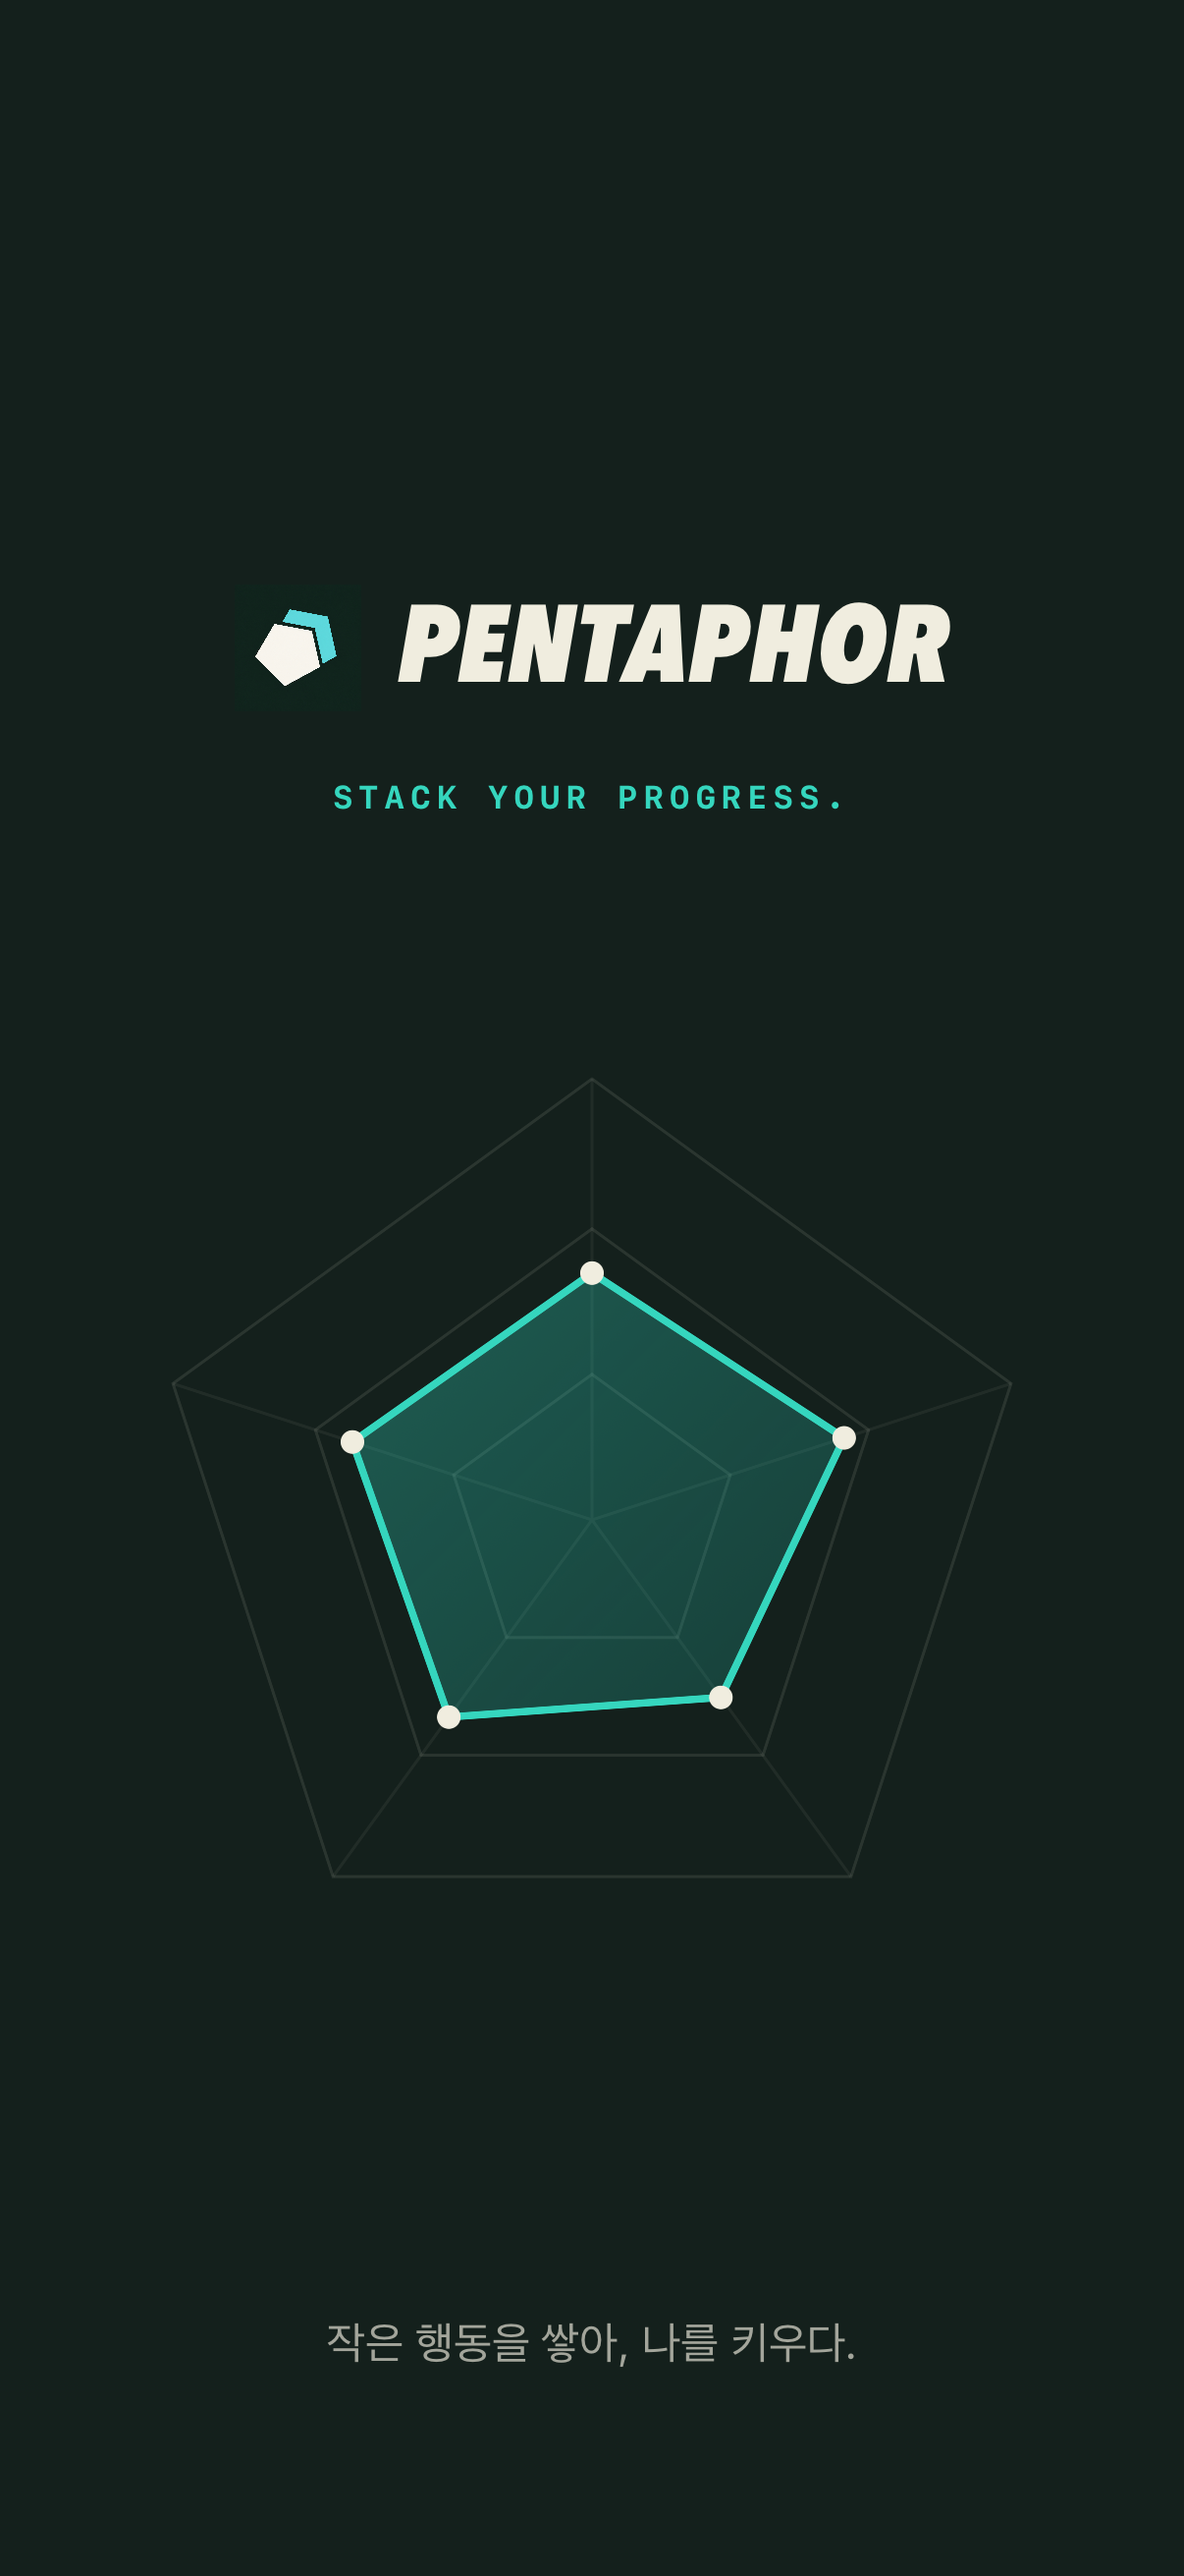
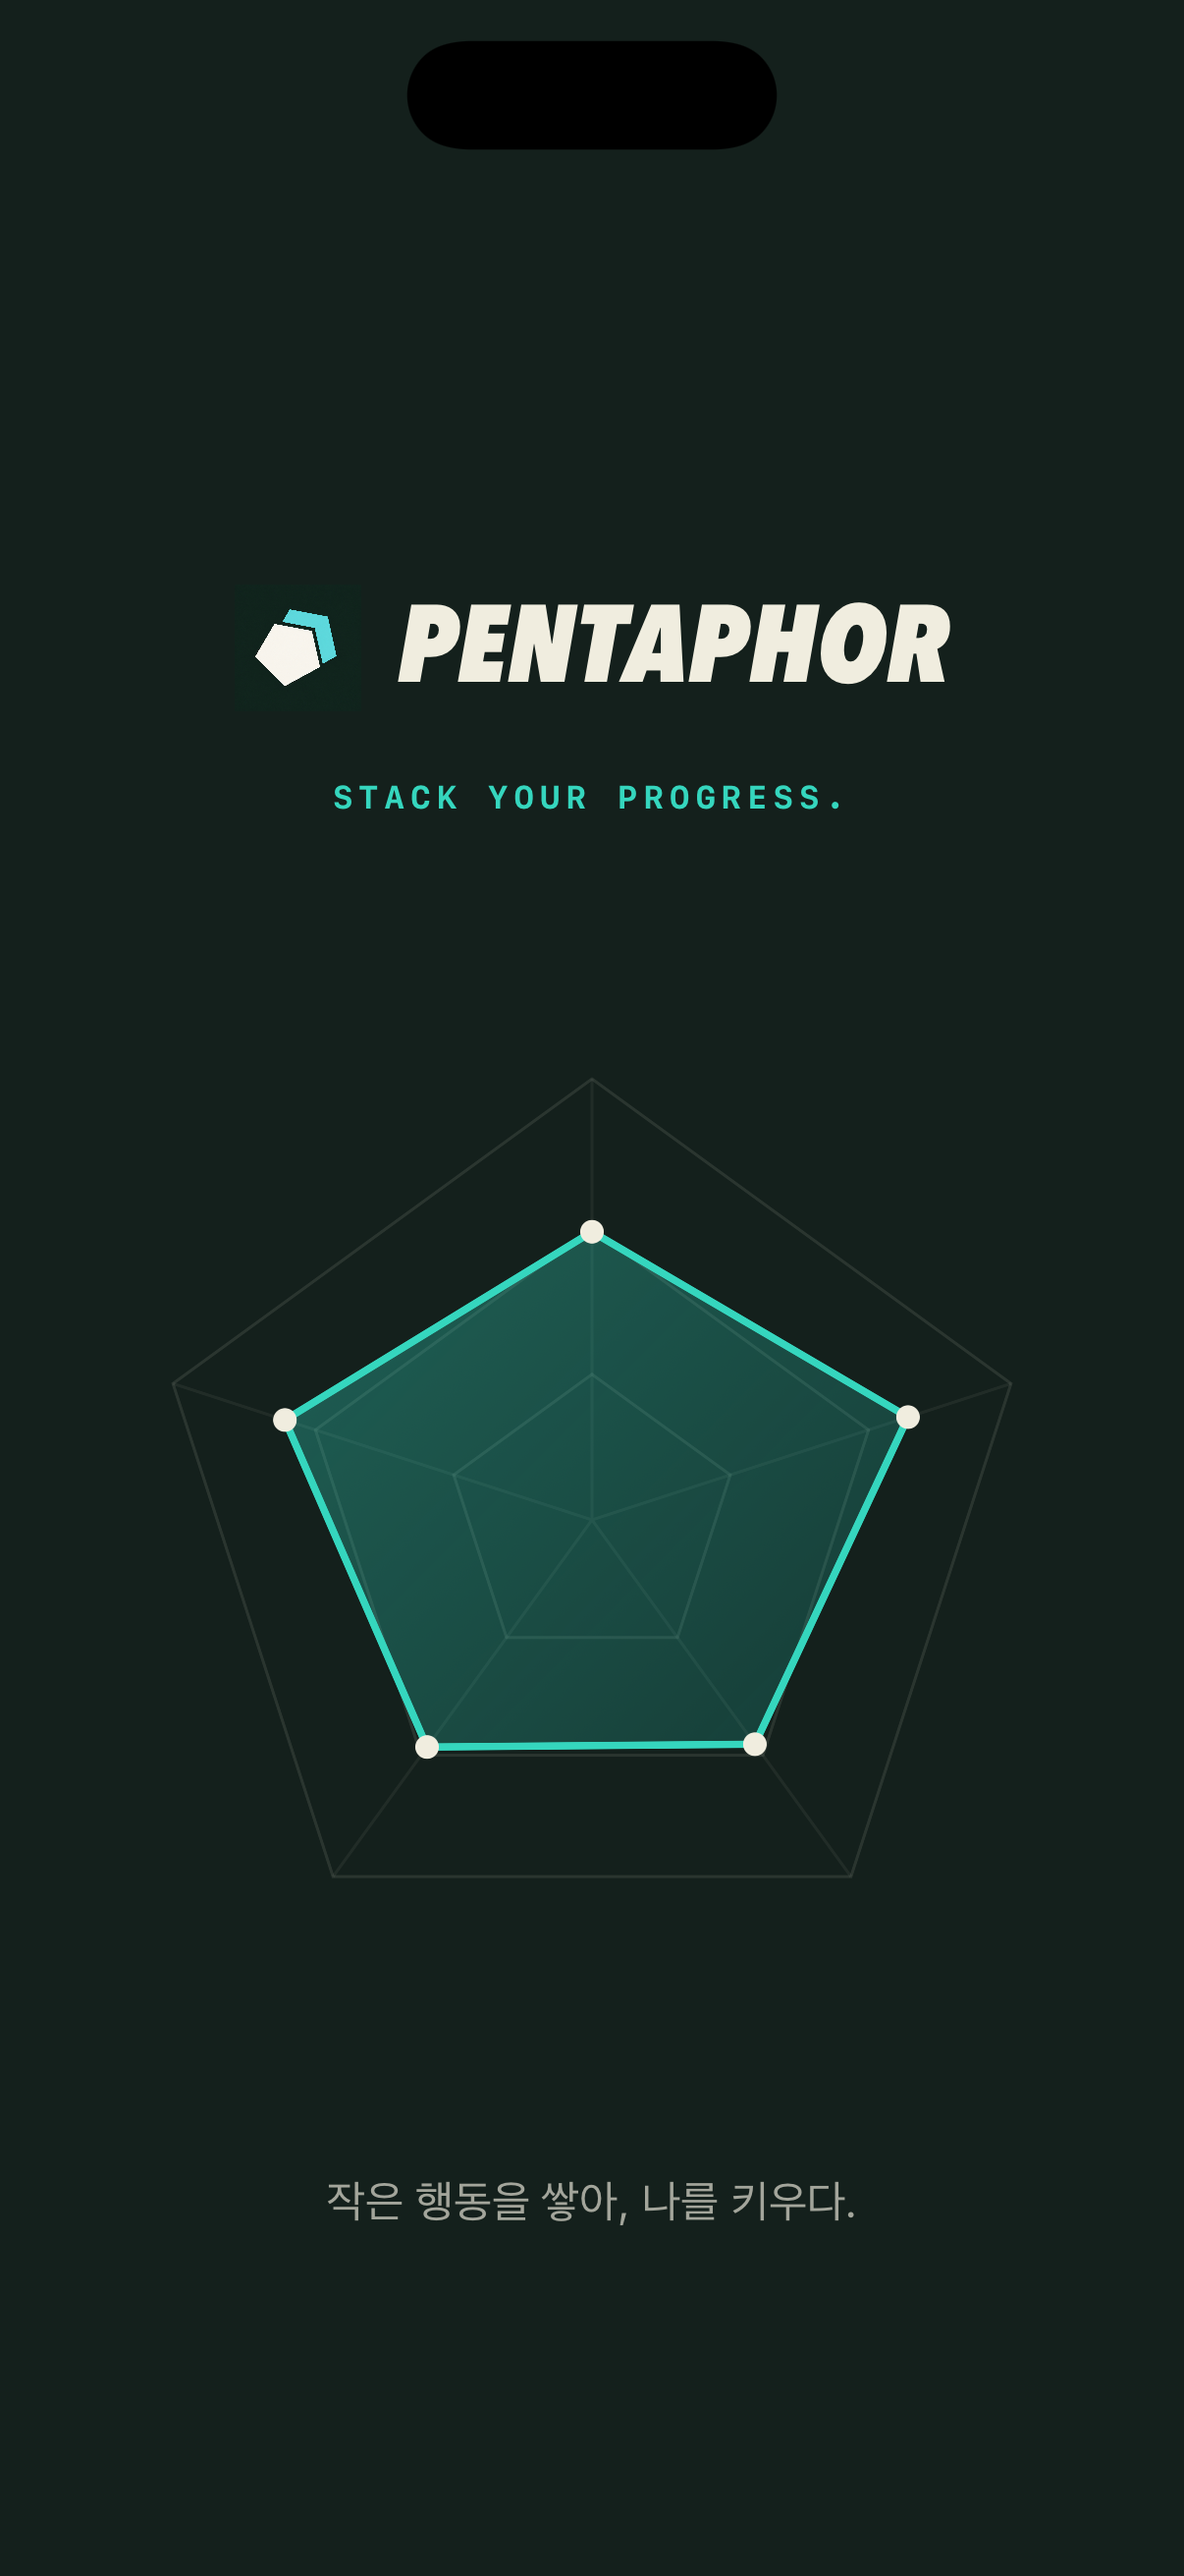
style: bring launch tagline closer to the polygon

diff --git a/Pentaphor/Views/LaunchLoadingView.swift b/Pentaphor/Views/LaunchLoadingView.swift
@@ -45,6 +45,7 @@ struct LaunchLoadingView: View {
                 Spacer(minLength: 30)
                 Text(BrandCopy.tagline).font(.subheadline).foregroundStyle(Palette.paper.opacity(0.65))
                     .multilineTextAlignment(.center).padding(.bottom, 36)
+                    .offset(y: -48)
             }
             .padding(.horizontal, 24).frame(maxWidth: .infinity, maxHeight: .infinity)
         }

diff --git a/docs/development-log.md b/docs/development-log.md
@@ -145,3 +145,7 @@ Extended the existing settings acceptance test to relaunch with the saved achiev
 GREEN: all **3 affected native acceptance tests passed**, 63.817s (`/tmp/pentaphor-launch-independent-green.xcresult`): saved achievement simplification with animated launch, pending load/foreground resume, and error/retry. Core regression: **57 tests in 11 suites passed**, 0.549s (`/tmp/pentaphor-launch-independent-core.log`). Signed physical-iOS build succeeded (`/tmp/pentaphor-launch-independent-device.log`). The other seven UI tests were not rerun for this scoped correction.
 
 Visually reviewed the lowered header and recorded a normal-speed launch with saved achievement simplification still enabled: all five axes animate before the existing quest appears. Updated screenshot 21 and the launch video; added screenshot 23 as the preference regression capture. No physical-phone installation or user-data changes.
+
+## 2026-09-14 — bring the launch tagline closer
+
+Raised the Korean launch tagline by 48pt at the user's request, keeping the logo and polygon positions. Visually checked the native iPhone 17 Pro simulator capture and updated `docs/screenshots/21-launch-growth.png`. Simulator and signed physical-iOS builds both succeeded (`/tmp/pentaphor-launch-tagline-simulator.log`, `/tmp/pentaphor-launch-tagline-device.log`). Layout-only change; no new tests or full regression rerun.

diff --git a/docs/superpowers/specs/2026-09-14-launch-growth.md b/docs/superpowers/specs/2026-09-14-launch-growth.md
@@ -13,3 +13,5 @@ Verify: gate ordering, no finish before a full cycle, late load waits until next
 Visual polish: native iOS static launch background uses the same ink color; the animated entry hides the status bar until leaving.
 
 Layout correction: lower the logo/name/slogan group by 32pt while keeping the polygon and footer positions.
+
+Footer correction: raise the Korean tagline by 48pt to bring the brand, polygon, and supporting line into one tighter visual group.
